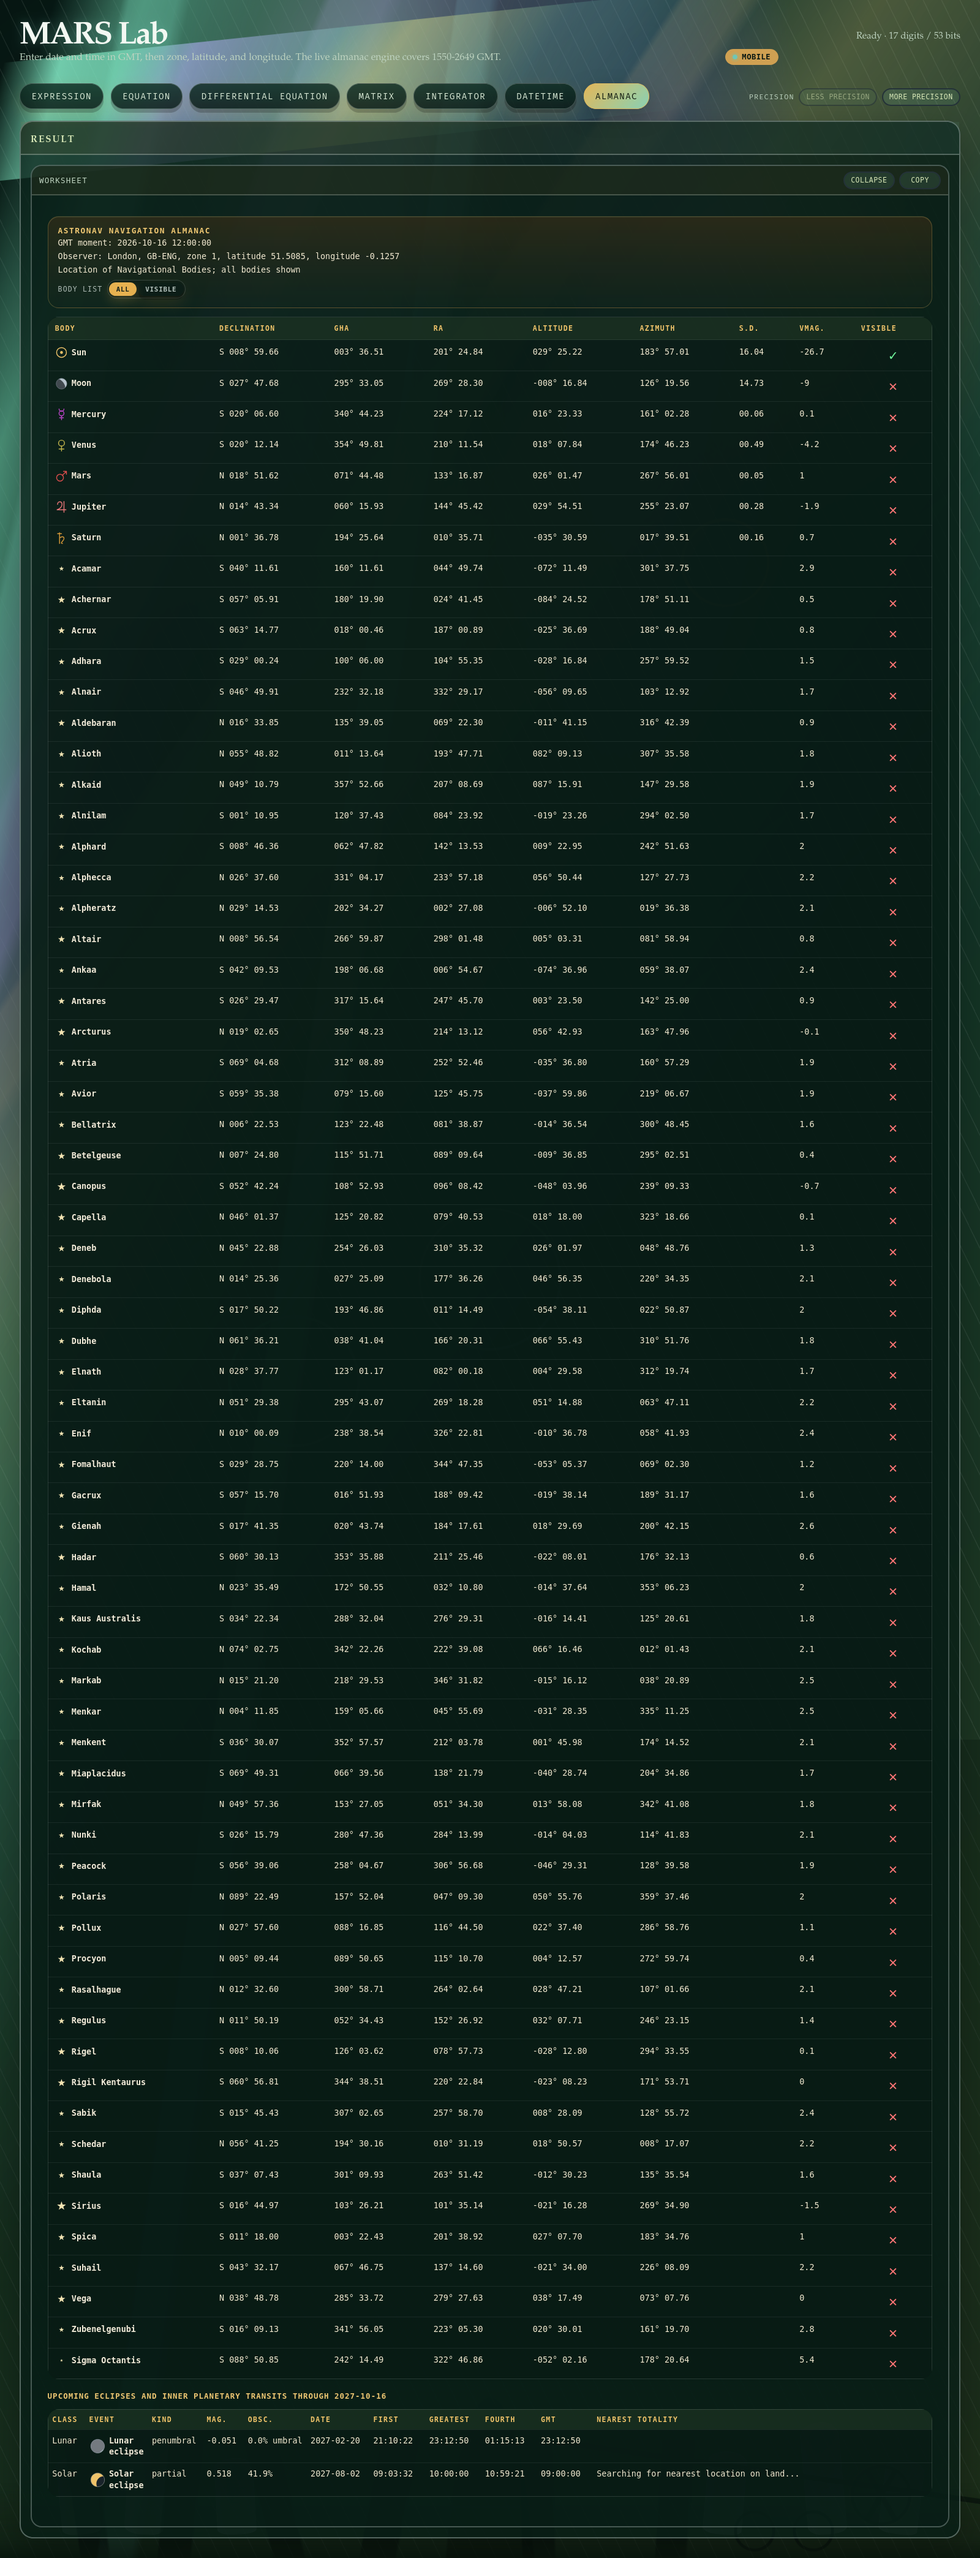
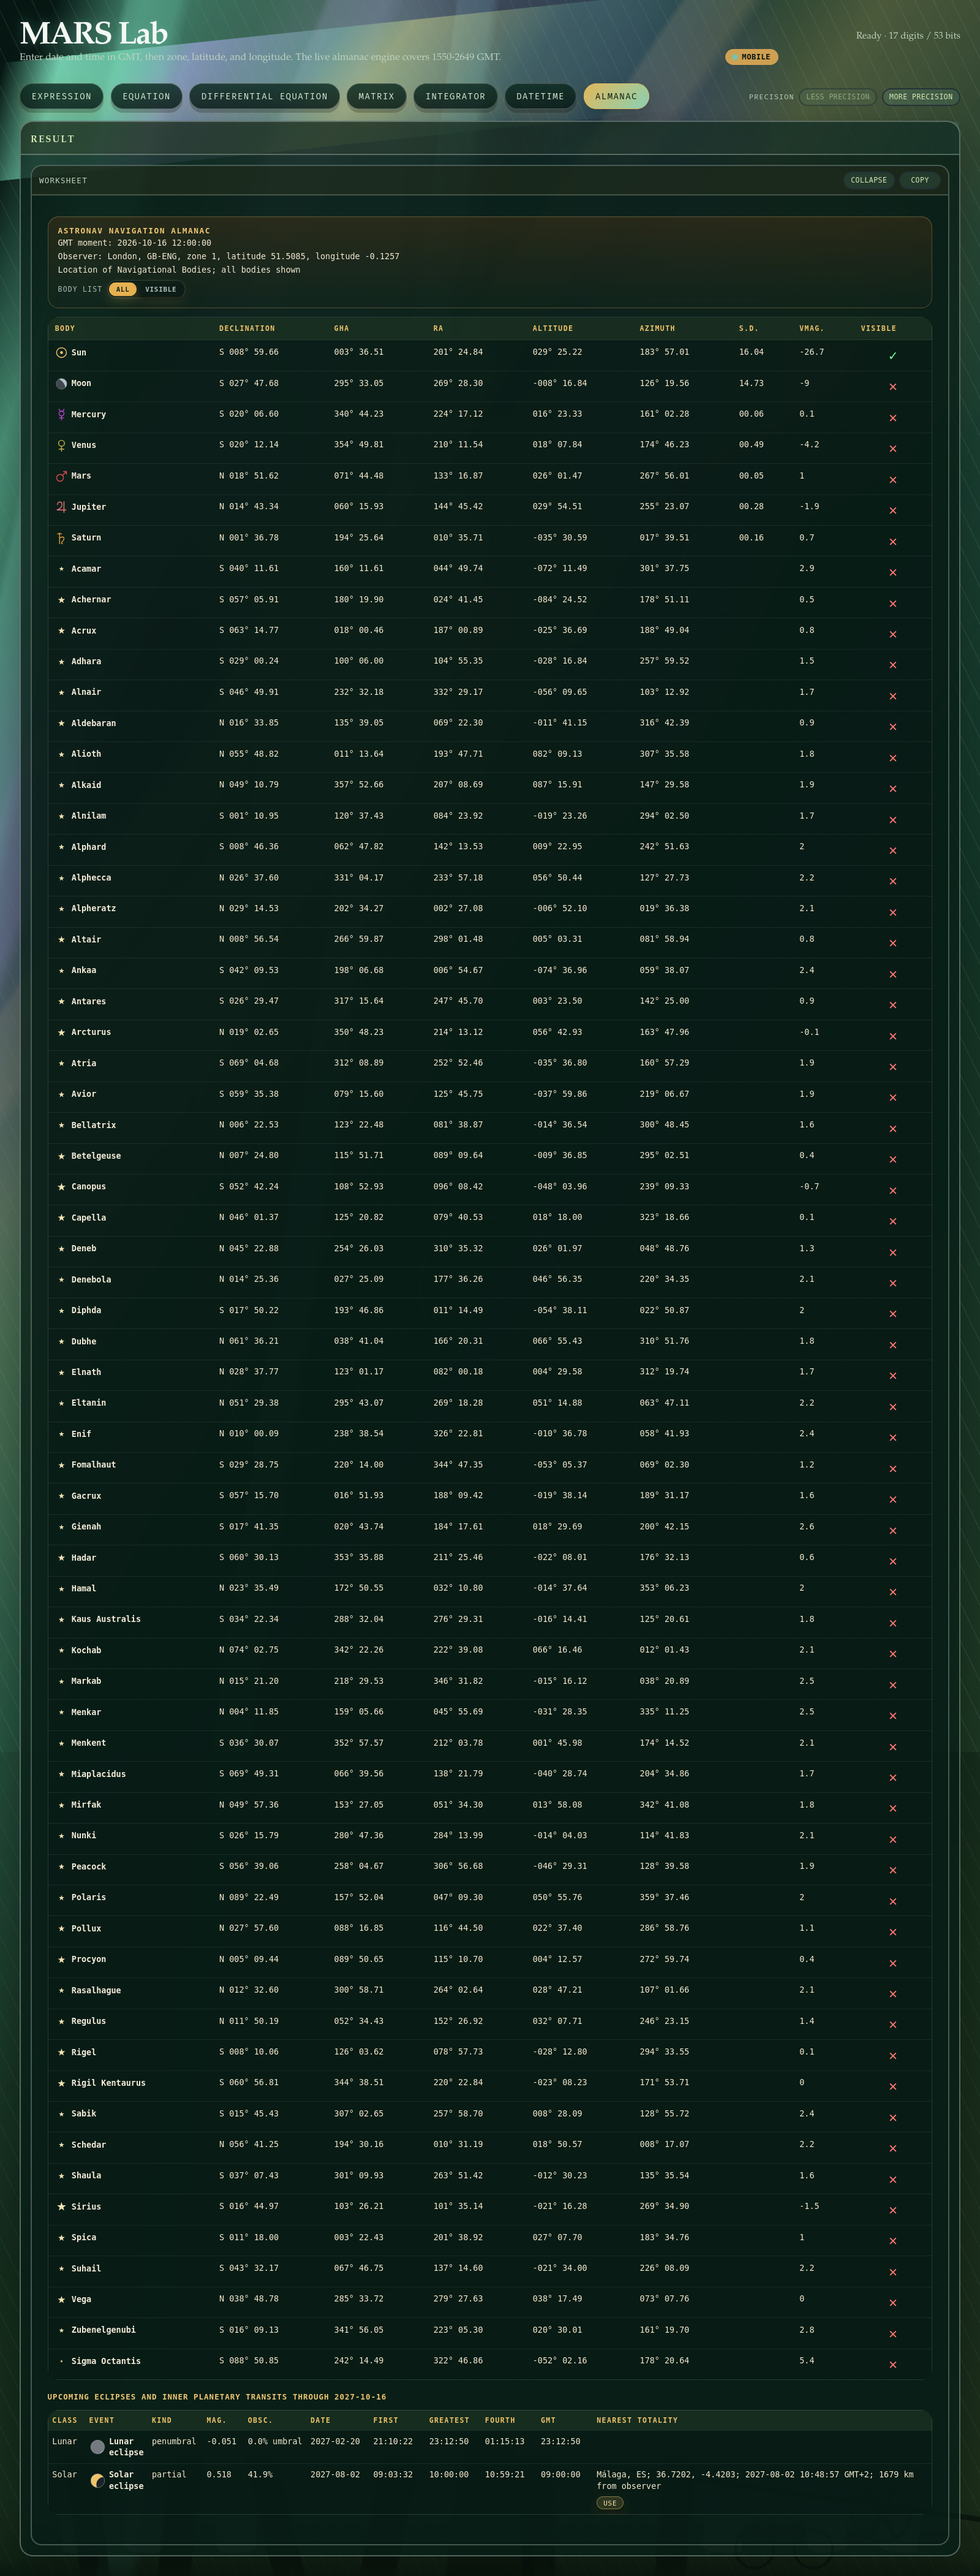
Simplify exact integrator results and refresh Lab captures
Share native beautification across exact-result cards and cancel rational factors over positive square roots. Extend Gaussian endpoint and screenshot regressions.

Regenerate the full-page integrator capture and wait for the nearest-totality location before capturing the almanac.

diff --git a/tools/mars_lab/src/worker/lab_worker_integrator.c b/tools/mars_lab/src/worker/lab_worker_integrator.c
@@ -444,6 +444,17 @@ static char *expr_TeX_body_display(const expr_t *expr)
 
 static char *combine_aligned_equation_TeX(const char *lhs, const char *rhs, int add_constant);
 
+/* Render both exact-result cards from the same native, beautified expression. */
+static void render_exact_result(const expr_t *expr, char **text, char **TeX)
+{
+    expr_t *display = expr_beautify(expr);
+    const expr_t *source = display ? display : expr;
+
+    *text = expr_text_dup(source, style_UNBOUND);
+    *TeX = expr_TeX_body_display(source);
+    expr_free(display);
+}
+
 static char *combine_equation_TeX(const char *lhs, const char *rhs)
 {
     size_t lhs_n;
@@ -885,12 +896,10 @@ int lab_worker_integrator(int argc, char **argv)
         if (!symbolic_result && !first_antiderivative && ndim == 1u)
             first_antiderivative = make_unevaluated_antiderivative(expr, vars[0]);
         if (first_antiderivative) {
-            antiderivative_text = expr_text_dup(first_antiderivative, style_UNBOUND);
-            antiderivative_TeX = expr_TeX_body_display(first_antiderivative);
+            render_exact_result(first_antiderivative, &antiderivative_text, &antiderivative_TeX);
         }
         if (symbolic_result) {
-            symbolic_text = expr_text_dup(symbolic_result, style_UNBOUND);
-            symbolic_TeX = expr_TeX_body_display(symbolic_result);
+            render_exact_result(symbolic_result, &symbolic_text, &symbolic_TeX);
             symbolic_num = expr_eval(symbolic_result);
             if (!num_is_nan(symbolic_num) && num_is_finite(symbolic_num) && num_is_real(symbolic_num))
                 symbolic_value_text = number_text(symbolic_num);
@@ -916,8 +925,7 @@ int lab_worker_integrator(int argc, char **argv)
         if (partially_symbolic_result && remaining_numeric_ndim == 0u) {
             symbolic_result = partially_symbolic_result;
             partially_symbolic_result = NULL;
-            symbolic_text = expr_text_dup(symbolic_result, style_UNBOUND);
-            symbolic_TeX = expr_TeX_body_display(symbolic_result);
+            render_exact_result(symbolic_result, &symbolic_text, &symbolic_TeX);
             symbolic_num = expr_eval(symbolic_result);
             if (!num_is_nan(symbolic_num) && num_is_finite(symbolic_num) && num_is_real(symbolic_num)) {
                 symbolic_value_text = number_text(symbolic_num);
@@ -977,8 +985,7 @@ int lab_worker_integrator(int argc, char **argv)
             expr_retain(symbolic_result);
         if (symbolic_result) {
             used_core_exact_result = 1;
-            symbolic_text = expr_text_dup(symbolic_result, style_UNBOUND);
-            symbolic_TeX = expr_TeX_body_display(symbolic_result);
+            render_exact_result(symbolic_result, &symbolic_text, &symbolic_TeX);
             symbolic_num = expr_eval(symbolic_result);
             if (!num_is_nan(symbolic_num) && num_is_finite(symbolic_num) && num_is_real(symbolic_num)) {
                 symbolic_value_text = number_text(symbolic_num);

diff --git a/tools/mars_lab/tests/test_lab_evaluation_extra.c b/tools/mars_lab/tests/test_lab_evaluation_extra.c
@@ -1383,7 +1383,7 @@ static void test_lab_screenshots_readme(void)
     fields = request("/integrator-eval",
                      "{\"expression\":\"exp(-x^2/2)\",\"bounds\":[{\"name\":\"x\",\"lo\":\"-inf\",\"hi\":\"2\"}]}",
                      &status);
-    ok = status == 200 && contains(fields, "symbolic", "erf") && contains(fields, "symbolic", " + 1") &&
+    ok = status == 200 && contains(fields, "symbolic", "√(π/2)·(erf(√(2)) + 1)") &&
          !contains(fields, "symbolic", "∞");
     if (!ok) show_failure(fields);
     TEST_ASSERT_TRUE(ok, "README screenshot Gaussian integral evaluates its infinite endpoint");
@@ -1784,12 +1784,30 @@ static void test_lab_extra_gaussian_endpoint(void)
     json_t *result = request("/integrator-eval",
         "{\"expression\":\"exp(-x^2/2)\",\"bounds\":[{\"name\":\"x\",\"lo\":\"-inf\",\"hi\":\"2\"}]}",
         &status);
-    bool ok = status == 200 && contains(result, "tex", "erf") &&
-              contains(result, "symbolic", "erf") && contains(result, "symbolic", " + 1") &&
+    bool ok = status == 200 && contains(result, "tex", "\\sqrt{\\frac{\\pi}{2}}") &&
+              contains(result, "tex", "\\operatorname{erf}(\\sqrt{2})") &&
+              contains(result, "symbolic", "√(π/2)·(erf(√(2)) + 1)") &&
+              contains(result, "antiderivative", "√(π/2)·erf(x/√(2))") &&
+              contains(result, "value", "2.449602150638108") &&
               !contains(result, "symbolic", "∞");
     if (!ok) show_failure(result);
     json_free(result);
     TEST_ASSERT_TRUE(ok, "Gaussian improper endpoint reduces to an exact error-function value");
+
+    /* Exercise the same positive-radical cancellation with another scale and both endpoint signs. */
+    const char *bounds[] = {"3", "-3"};
+    const char *arguments[] = {"erf(√(3))", "erf(-√(3))"};
+    for (size_t i = 0u; i < 2u; ++i) {
+        string_t *payload = string_sprintf(
+            "{\"expression\":\"exp(-x^2/3)\",\"precision\":78,"
+            "\"bounds\":[{\"name\":\"x\",\"lo\":\"-inf\",\"hi\":\"%s\"}]}", bounds[i]);
+        result = request("/integrator-eval", string_c_str(payload), &status);
+        ok = status == 200 && contains(result, "symbolic", arguments[i]);
+        if (!ok) show_failure(result);
+        json_free(result);
+        string_free(payload);
+        TEST_ASSERT_TRUE(ok, "exact endpoint radical cancellation preserves the sign at higher precision");
+    }
 }
 
 static void test_lab_extra_number_card_markup(void)

diff --git a/src/expression/expr_beautify_radical.c b/src/expression/expr_beautify_radical.c
@@ -150,6 +150,26 @@ expr_t *expr_beautify_radical_factors_for_display(const expr_t *expr)
 
     if (out)
         return out;
+    if (expr_is_op(expr, &ops_div) && rational_literal(expr->a, &numerator, &denominator) &&
+        expr_is_sqrt_expr(expr->b)) {
+        long root_n;
+        long root_d;
+
+        if (rational_literal(expr->b->a, &root_n, &root_d) && root_n > 0L && root_d > 0L) {
+            number_t coefficient = num_create_from_frac(numerator, denominator);
+            number_t inverse = num_create_from_frac(root_d, root_n);
+            expr_t *reciprocal = expr_new_const(inverse);
+            expr_t *root = reciprocal ? expr_sqrt(reciprocal) : NULL;
+
+            out = root ? absorb_scale(root, coefficient) : NULL;
+            expr_free(root);
+            expr_free(reciprocal);
+            num_destroy(&inverse);
+            num_destroy(&coefficient);
+            if (out)
+                return out;
+        }
+    }
     if (expr_is_op(expr, &ops_div) && rational_literal(expr->b, &numerator, &denominator) && numerator != 0L) {
         number_t coefficient = num_create_from_frac(denominator, numerator);
 

diff --git a/docs/mars-lab.md b/docs/mars-lab.md
@@ -2621,11 +2621,13 @@ work ceiling.
 
 The captured input is `exp(-x^2/2)` with `x` from `-inf` to `2`.
 MARS returns the exact definite result
-`1/2*sqrt(pi/(1/2))*(erf(2*sqrt(1/2))+1)`, approximately `2.44960215063810845`.
+`sqrt(pi/2)*(erf(sqrt(2))+1)`, approximately `2.44960215063810845`.
+The antiderivative is `sqrt(pi/2)*erf(x/sqrt(2))`. Both exact-result cards
+use the same native beautification pass, including rational radical cancellation.
 The infinite endpoint has reduced to its exact limit; the plot shades the
 visible portion of the integration interval under the Gaussian curve.
 
-[![MARS Lab integrator mode showing the Gaussian improper integral with its simplified endpoint and shaded plot](images/mars-lab/integrator.png?v=20261016-full)](images/mars-lab/integrator.png?v=20261016-full)
+[![MARS Lab integrator mode showing the Gaussian improper integral with its simplified endpoint and shaded plot](images/mars-lab/integrator.png?v=20261016-simplified)](images/mars-lab/integrator.png?v=20261016-simplified)
 
 ## Datetime mode
 
@@ -2769,7 +2771,7 @@ The captured request is for London at `2026-10-16 12:00:00` GMT. The expanded
 worksheet shows the navigational-body table, including bodies below the horizon,
 with their declination, hour angle, right ascension, altitude, azimuth and visibility.
 
-[![MARS Lab expanded almanac worksheet showing London navigational bodies and their visibility](images/mars-lab/almanac.png?v=20261016-full)](images/mars-lab/almanac.png?v=20261016-full)
+[![MARS Lab expanded almanac worksheet showing London navigational bodies and their visibility](images/mars-lab/almanac.png?v=20261016-location)](images/mars-lab/almanac.png?v=20261016-location)
 
 ## Mobile and private remote access
 

diff --git a/docs/expression.md b/docs/expression.md
@@ -1586,6 +1586,9 @@ exact square-root-of-pi factors. Differentiating the repeated Gaussian primitive
 therefore cancels its opposite exponential terms rather than displaying numerical
 coefficients disguised as radicals. Standalone parameter addends follow the
 formula in beautified output, including a surviving integration constant.
+Beautification also absorbs rational numerators into positive rational square-root
+denominators when this reduces the radical's rational scale. The coefficient's sign
+is retained; symbolic or non-positive radicands are not subject to this rule.
 
 Gaussian cumulative integrals also have a direct outer-integration rule. For an
 integrand `exp(a*t^2+b*t+c)`, it completes the square and uses `erf` or `erfc`,
